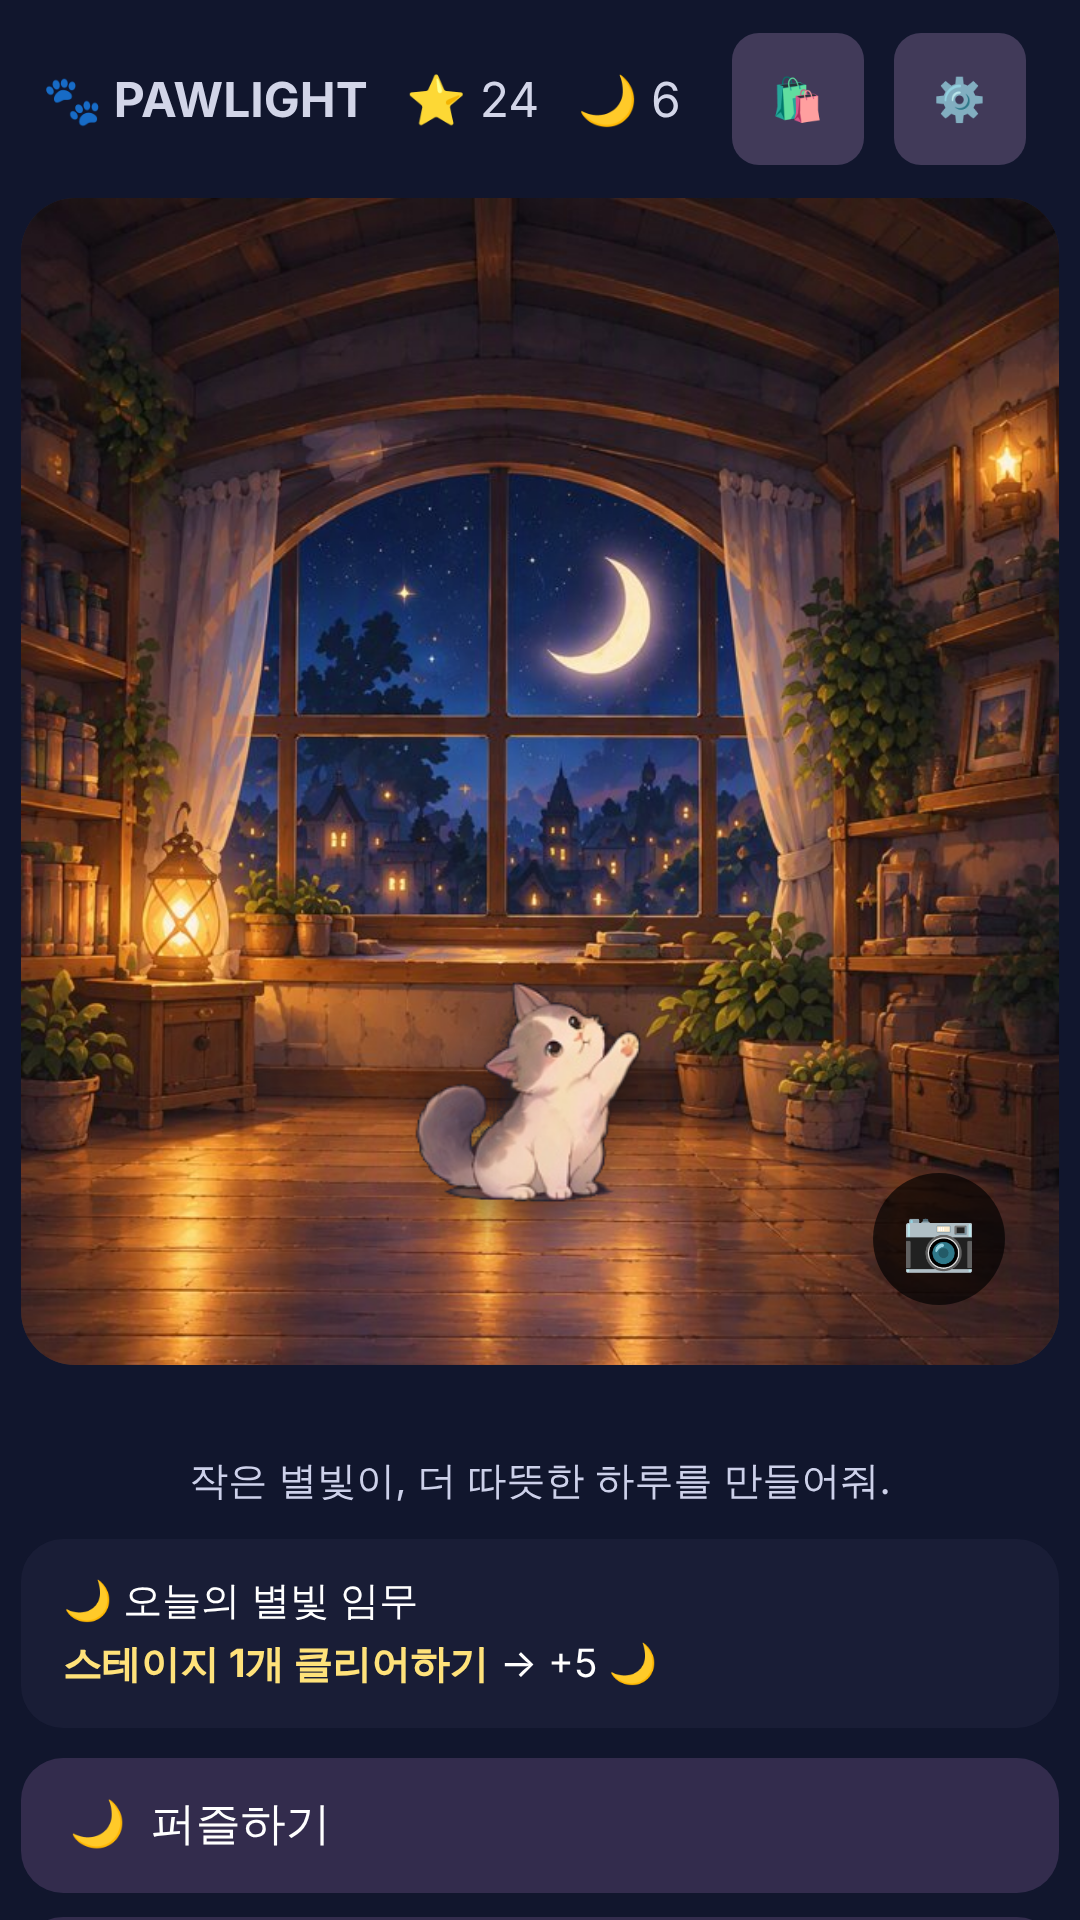
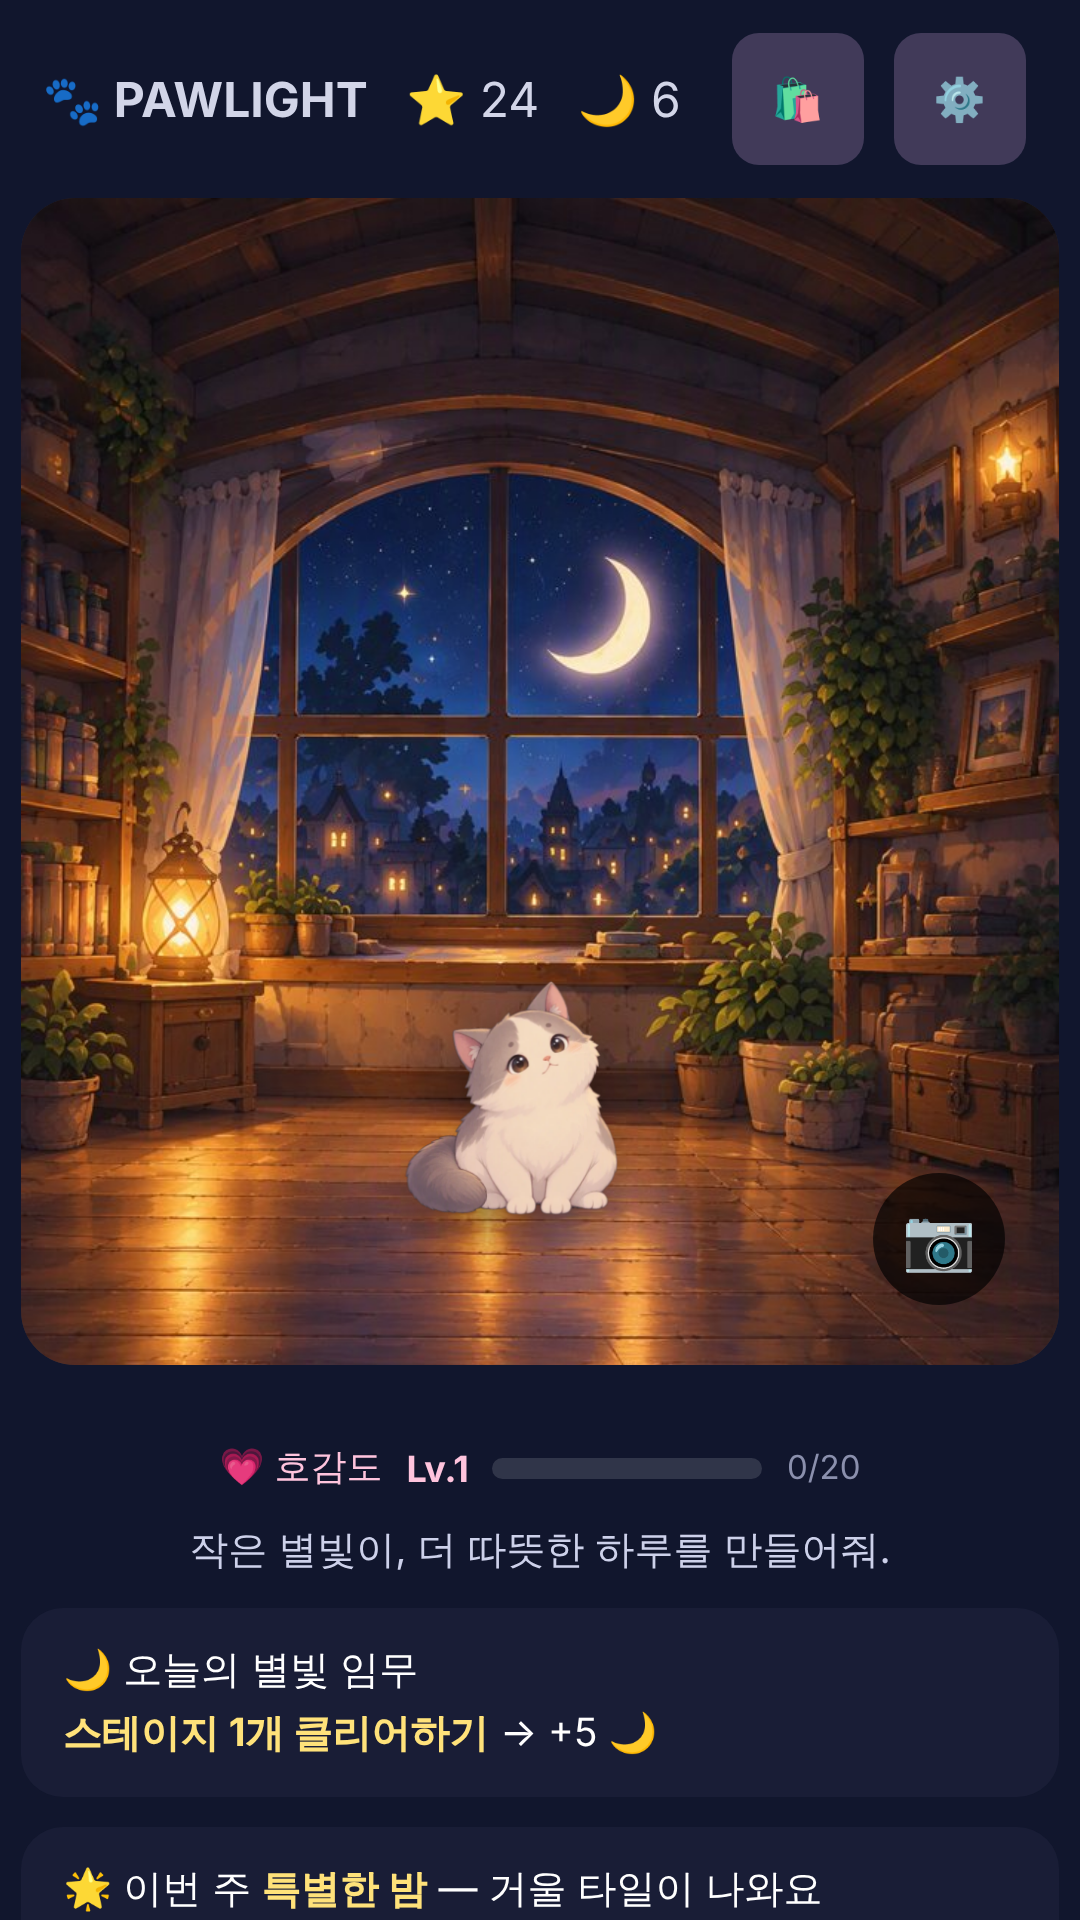
Add files via upload

Changed region(s): [[0.0, 0.75, 1.0, 1.0], [0.3667, 0.5, 0.6111, 0.6562]]

diff --git a/index.html b/index.html
@@ -762,12 +762,13 @@ function petCat(e){
 }
 homeCat.addEventListener('pointerdown',petCat);
 /* ===================== 새 고양이 포즈 자동 등록 (cats/manifest.json) ===================== */
+var ANIM={};
 (function(){
   fetch('cats/manifest.json',{cache:'no-cache'}).then(function(r){return r.ok?r.json():null}).then(function(m){
     if(!m||!m.poses)return;
     Object.keys(m.poses).forEach(function(k){
       var d=m.poses[k],img=new Image();
-      img.onload=function(){IMG['cat_'+k]=img;if(!POSE_POOL.some(function(p){return p.k===k}))POSE_POOL.push({k:k,w:d.w||6});if(currentPose===k)homeCat.src=img.src;try{if(document.getElementById('puzzleScreen').classList.contains('active')&&!lock&&k==='lookup')setCat('lookup')}catch(e){}};
+      img.onload=function(){IMG['cat_'+k]=img;if(!POSE_POOL.some(function(p){return p.k===k}))POSE_POOL.push({k:k,w:d.w||6});if(currentPose===k)homeCat.src=img.src;if(d.anim){var an=new Image();an.onload=function(){ANIM[k]=an;if(currentPose===k)homeCat.src=img.src;try{if(IMG['cat_'+k]&&cat.src===IMG['cat_'+k].src)cat.src=img.src}catch(e){}};an.src=d.anim}try{if(document.getElementById('puzzleScreen').classList.contains('active')&&!lock&&k==='lookup')setCat('lookup')}catch(e){}};
       img.src=d.file;
     });
   }).catch(function(){});
@@ -812,9 +813,11 @@ function flashMsg(t,ms){
 
 /* 숨쉬기 속도를 포즈에 맞추기 */
 (function(){
+  function swapAnim(el){for(var k in ANIM){if(IMG['cat_'+k]&&el.src===IMG['cat_'+k].src&&el.src!==ANIM[k].src){el.src=ANIM[k].src;return true}}return false}
   function tag(el){
-    var s=el.getAttribute('src'),f='idle';
-    ['idle','lookup','paw','sleep','receive','happy','yawn','stretch'].forEach(function(k){if(IMG['cat_'+k]&&IMG['cat_'+k].src===el.src)f=k});
+    if(swapAnim(el))return;
+    var f='idle';
+    ['idle','lookup','paw','sleep','receive','happy','yawn','stretch'].forEach(function(k){if((IMG['cat_'+k]&&IMG['cat_'+k].src===el.src)||(ANIM[k]&&ANIM[k].src===el.src))f=k});
     el.dataset.pose=f;
   }
   [homeCat,cat].forEach(function(el){new MutationObserver(function(){tag(el)}).observe(el,{attributes:true,attributeFilter:['src']});tag(el)});
@@ -857,10 +860,10 @@ function failMsg(){
 /* ===================== 고양이가 소품과 노는 장면 ===================== */
 var playing=false,nextPlayAt=0,playKey=null;
 var PLAY={
-  yarn:{anim:'p-roll',pose:'paw',dur:2600,fx:'💕',msg:'🧶 고양이가 실뭉치를 굴려요'},
-  fish:{anim:'p-hop',pose:'paw',dur:2600,fx:'✨',msg:'🐟 고양이가 물고기를 잡으려 해요'},
+  yarn:{anim:'',pose:'play_yarn',alt:'paw',hide:1,ax:.9,dur:3200,fx:'💕',msg:'🧶 고양이가 실뭉치를 굴려요'},
+  fish:{anim:'',pose:'play_fish',alt:'paw',hide:1,ax:.88,dur:3200,fx:'✨',msg:'🐟 고양이가 물고기를 잡으려 해요'},
   plant:{anim:'p-sway',pose:'lookup',dur:3200,fx:'🍃',msg:'🪴 고양이가 잎사귀 냄새를 맡아요'},
-  basket:{anim:'',pose:'sleep',dur:6500,fx:'💤',msg:'🧺 고양이가 바구니에서 낮잠을 자요',inside:true}
+  basket:{anim:'',pose:'basket',alt:'sleep',hide:1,ax:.5,dur:6500,fx:'💤',msg:'🧺 고양이가 바구니에서 낮잠을 자요',inside:true}
 };
 function catPlace(pct){homeCat.style.left=pct+'%'}
 function playWithDecor(){
@@ -870,9 +873,13 @@ function playWithDecor(){
   var idx=Math.random()*els.length|0,el=els[idx],key=equippedDecor[idx],cfg=PLAY[key];if(!cfg)return;
   playing=true;playKey=key;stopHomePoseCycle();
   var itemLeft=parseFloat(el.style.left)||60;
-  catPlace(cfg.inside?Math.min(itemLeft-12,50):Math.max(8,itemLeft-21));
+  var pk=IMG['cat_'+cfg.pose]?cfg.pose:cfg.alt,own=(pk===cfg.pose&&cfg.hide);
+  var sc=homeCat.parentElement.getBoundingClientRect(),cw=homeCat.getBoundingClientRect().width/sc.width*100;
+  var elBottom=el.style.bottom;
+  catPlace(own?Math.max(0,Math.min(100-cw,itemLeft+3-cfg.ax*cw)):(cfg.inside?Math.min(itemLeft-12,50):Math.max(8,itemLeft-21)));
   setTimeout(function(){
-    currentPose=cfg.pose;homeCat.src=IMG['cat_'+cfg.pose].src;
+    currentPose=pk;homeCat.src=IMG['cat_'+pk].src;
+    if(own){el.style.visibility='hidden';if(cfg.inside)homeCat.style.bottom=elBottom}
     if(cfg.anim){el.classList.add(cfg.anim)}
     var fx=document.createElement('span');fx.className='playFx';fx.textContent=cfg.fx;fx.style.left=(itemLeft+2)+'%';fx.style.bottom='20%';decorSlot.appendChild(fx);setTimeout(function(){fx.remove()},1700);
     if(!document.getElementById('photoToast').textContent)photoToast.textContent=cfg.msg;
@@ -880,6 +887,7 @@ function playWithDecor(){
   },1300);
   setTimeout(function(){
     if(cfg.anim)el.classList.remove(cfg.anim);
+    el.style.visibility='';homeCat.style.bottom='13%';
     if(photoToast.textContent===cfg.msg)photoToast.textContent='';
     catPlace(37);
     setTimeout(function(){playing=false;playKey=null;if(document.getElementById('homeScreen').classList.contains('active'))startHomePoseCycle()},1300);

diff --git a/sw.js b/sw.js
@@ -1,4 +1,4 @@
-const CACHE='pawlight-v15';
+const CACHE='pawlight-v19';
 const FILES=['./','./index.html','./manifest.json','./icons/icon-192.png','./icons/icon-512.png','./icons/apple-touch-icon.png','./audio/bgm.mp3','./audio/meow1.ogg'];
 self.addEventListener('install',e=>{e.waitUntil(caches.open(CACHE).then(c=>c.addAll(FILES)));self.skipWaiting()});
 self.addEventListener('activate',e=>{e.waitUntil(caches.keys().then(ks=>Promise.all(ks.filter(k=>k!==CACHE).map(k=>caches.delete(k)))));self.clients.claim()});
